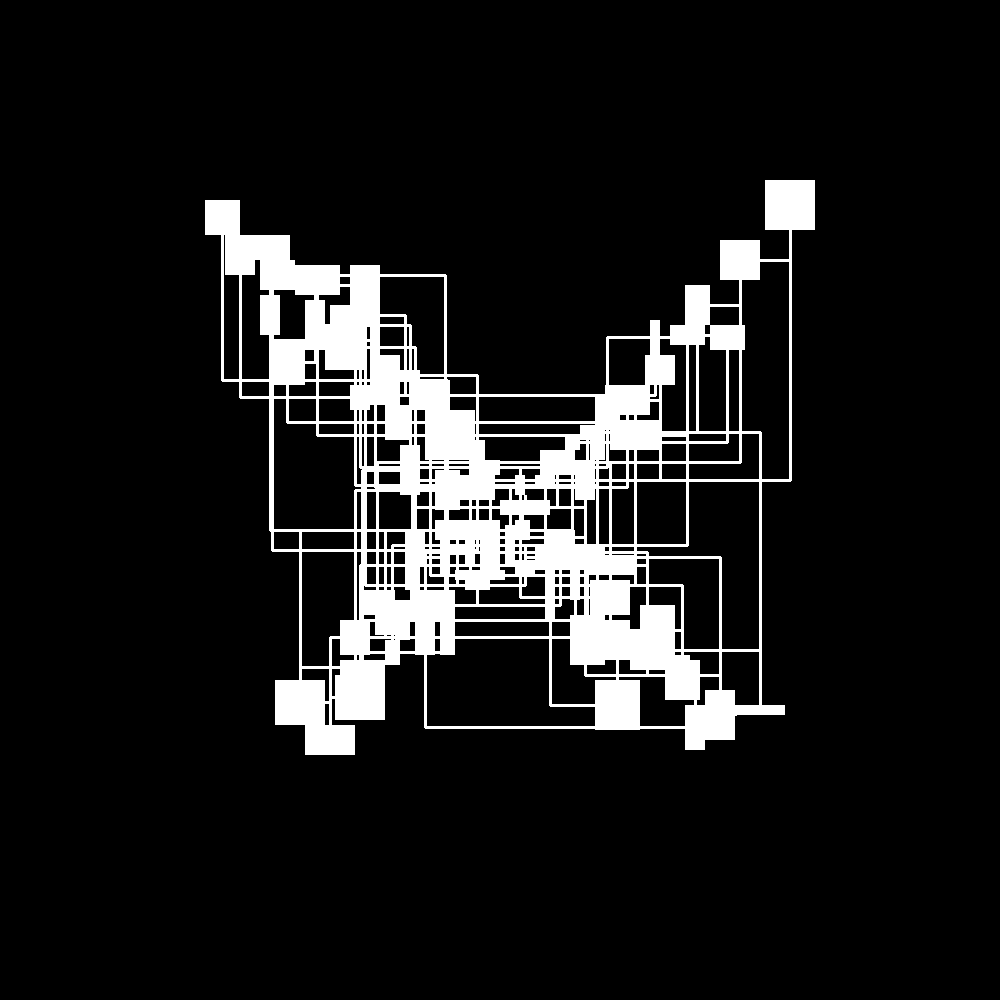
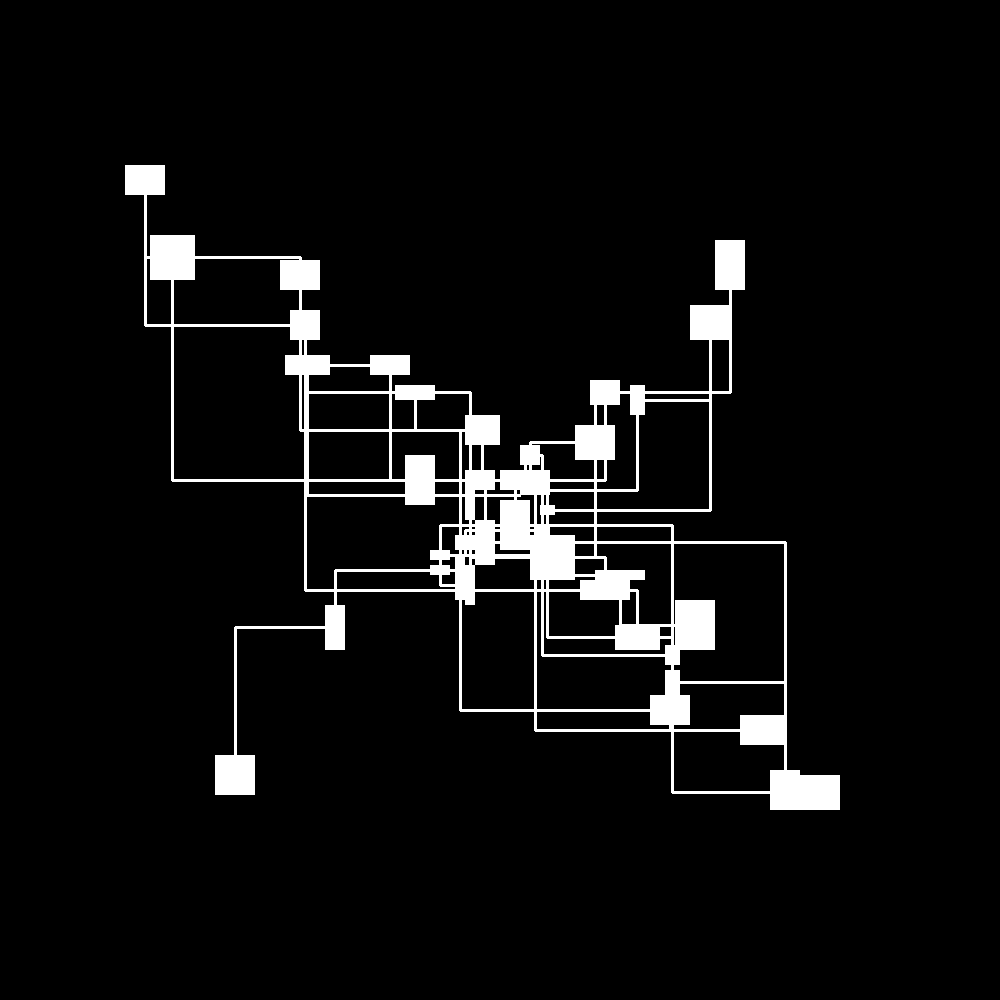
Todo List added

diff --git a/generate.py b/generate.py
@@ -16,29 +16,25 @@ def generateRooms(): # Create the needed number of Rooms
         #room.roomInfo()
     return rooms
 
-def moveRooms(rooms):# Move Rooms into correct positions
+# This function will ensure the room spaced out
+def moveRooms(rooms):
 
+    # Must loop through every room except the first one.
     for i in range(1, len(rooms)):
-        for z in range(i): # Check all rooms before it
-            overlapping = rooms[i].shape.colliderect(rooms[z].shape)
-            contains = rooms[i].shape.contains(rooms[z].shape)
-            while (overlapping or contains):# If overlapping push it out.
-                #print("Overlap Detected " + str(i) + " " + str(z))
-                rooms[i].pushOut()
-                overlapping = rooms[i].shape.colliderect(rooms[z].shape)
-                contains = rooms[i].shape.contains(rooms[z].shape)
-                
-        # Push out a random amount of times to create spacing.abs
-        push = random.randrange(1,6)
-        for w in range(push):
-            rooms[i].pushOut()         
+        # Each room will push out a random amount of times. 0-5
+        push = random.randrange(0,3)
 
-        for z in range(i):
-            overlapping = rooms[i].shape.colliderect(rooms[z].shape)
-            contains = rooms[i].shape.contains(rooms[z].shape)
-            while (overlapping or contains):# If overlapping push it out.
-                #print("Overlap Detected " + str(i) + " " + str(z))
-                rooms[i].pushOut()
-                overlapping = rooms[i].shape.colliderect(rooms[z].shape)
-                contains = rooms[i].shape.contains(rooms[z].shape)
+        while(push > -1):
+        # We also push out everytime there is an overlap detected
+        # Checking for overlap we look at each room before the current room
+            for z in range(i):
+                overlap = rooms[i].shape.colliderect(rooms[z].shape)
+                # if there is an overlap we need to push an extra time.
+                if(overlap):
+                    push += 1
+                    z = i# Exit for loop
+            
+            rooms[i].pushOut()
+            push -= 1
+
     return rooms

diff --git a/config.py b/config.py
@@ -9,4 +9,25 @@ def init():
 
     # Dungeon Area to Achieve
     global dunSize
-    dunSize = 3000 * (dunMultiply * dunMultiply)
+    dunSize = 1500 * (dunMultiply * dunMultiply)
+
+
+# To do
+# Item                              | Difficulty    | Timeframe
+# Correct the push out spacing      | Medium        | 3/29      | Bobby
+# Save Image if Expanding offscreen | Hard          | 3/29      | Bobby
+    # Other Surface?
+# Implement Scaling                 | Easy          | 3/29      | Eric
+# Implement Moving                  | Easy          | 3/29      | Eric
+# Input Tiles                       | Medium        | 3/29      | Eric
+# Green Dots on first room            | Easy          | 3/29    | Bobby
+# Red Dot in last room              | Easy          | 3/29      | Bobby
+# Map in first room                 | Easy          | 3/29      | Eric
+# Can't Walk through walls          | Medium        | 3/31      | Eric
+    # Ask others?
+# Terrain only when Flashlight      | Medium        | 3/31      | Eric
+# Menu                              | Easy          | 3/31      | Bobby
+    # Restart
+    # Quit
+    # How To
+
